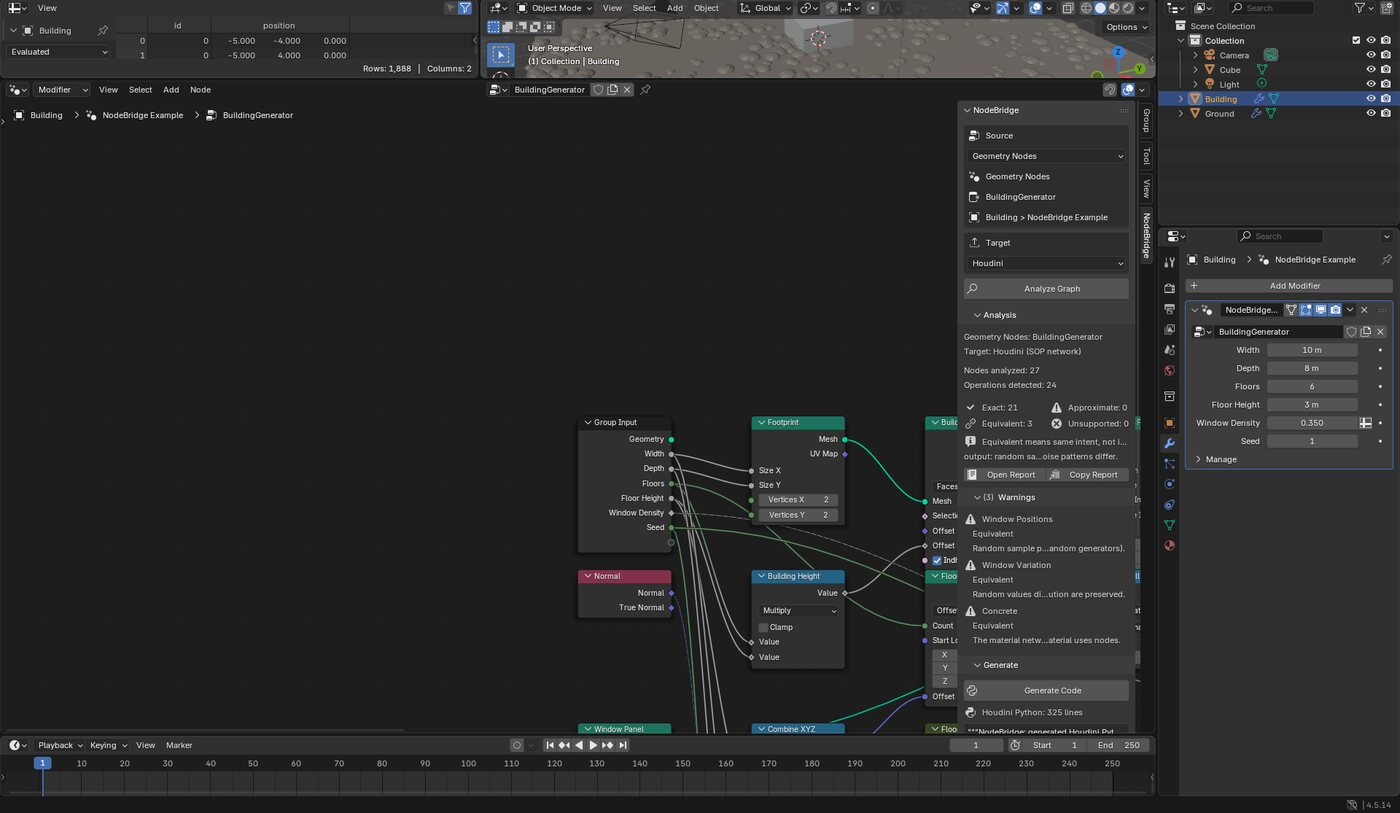
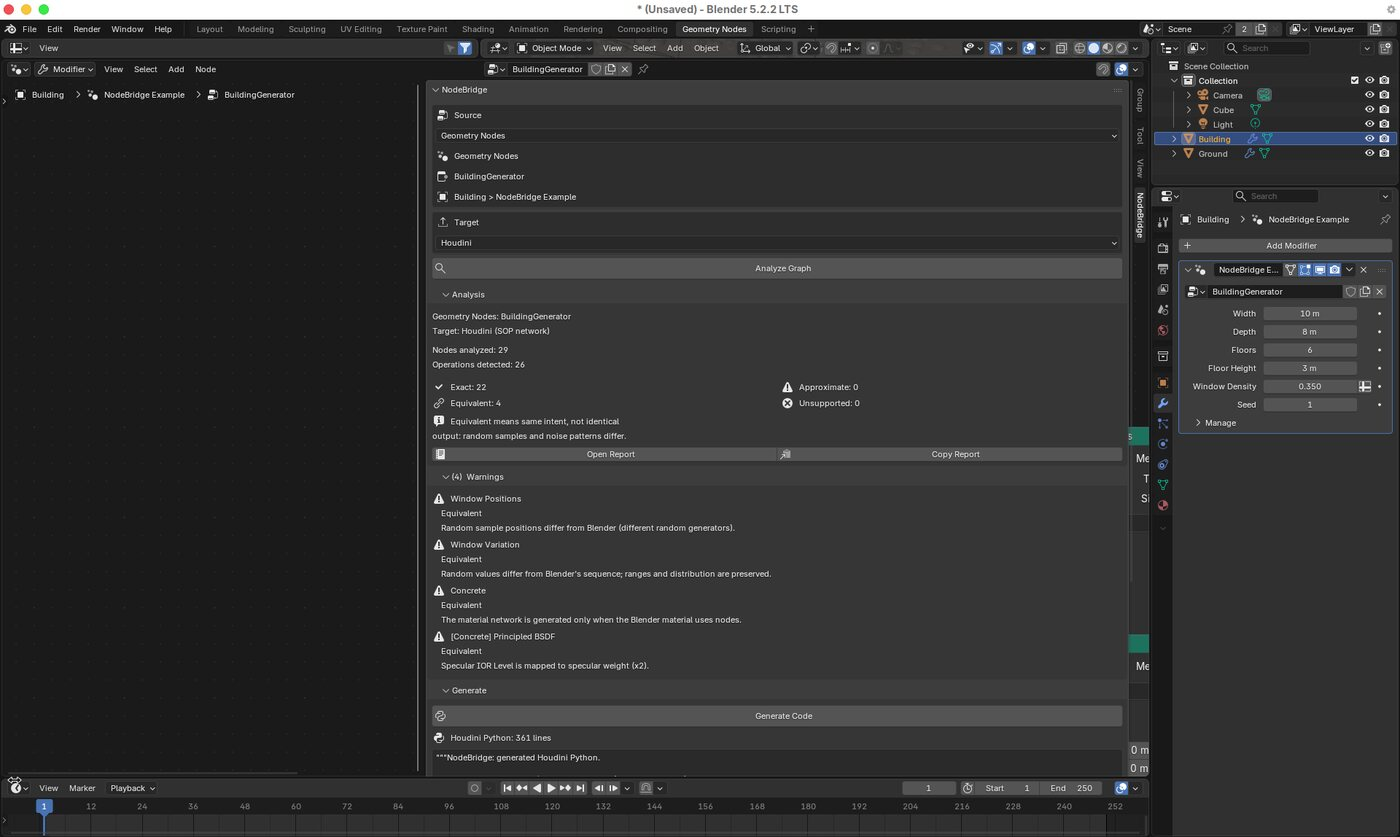
Recapture the README screenshots in Blender 5.2.2 LTS.
The compositor example builds on 5.2, where the scene uses a compositing node group and the composite output is a group output. Glare type and quality are read from the menu sockets. The building panel also counts the Concrete shader, because 5.2 materials are node trees.

diff --git a/examples/blender/build_examples.py b/examples/blender/build_examples.py
@@ -363,27 +363,45 @@ def build_shader():
     return material
 
 
-def build_compositor():
-    scene = bpy.context.scene
-    scene.use_nodes = True
-    tree = scene.node_tree
+def _socket_by_id(node, identifier):
+    """Find a socket by identifier. Blender 5.x reuses display names (Lift, Gain, Result)."""
+    for collection in (node.inputs, node.outputs):
+        for socket in collection:
+            if socket.identifier == identifier:
+                return socket
+    raise KeyError(identifier)
+
+
+def _build_compositor_nodes(tree, *, group_output):
+    """Shared grading chain. Blender 5.2 replaced Composite and Mix RGB."""
     tree.nodes.clear()
     n = tree.nodes
     layers = n.new("CompositorNodeRLayers")
     glare = n.new("CompositorNodeGlare")
     glare.name = glare.label = "Bloom"
-    glare.glare_type = "FOG_GLOW"
-    glare.quality = "HIGH"
-    if "Highlights Threshold" in glare.inputs:
-        glare.inputs["Highlights Threshold"].default_value = 0.8
+    if hasattr(glare, "glare_type"):
+        glare.glare_type = "FOG_GLOW"
+        glare.quality = "HIGH"
     else:
+        _socket_by_id(glare, "Type").default_value = "Fog Glow"
+        _socket_by_id(glare, "Quality").default_value = "High"
+    threshold = next((s for s in glare.inputs if s.identifier == "Highlights Threshold"), None)
+    if threshold is not None:
+        threshold.default_value = 0.8
+    elif hasattr(glare, "threshold"):
         glare.threshold = 0.8
     _link(tree, layers, "Image", glare, "Image")
     grade = n.new("CompositorNodeColorBalance")
     grade.name = grade.label = "Grade"
-    if "Color Gain" in grade.inputs:
-        grade.inputs["Color Gain"].default_value = (1.05, 1.0, 0.92, 1.0)
-        grade.inputs["Color Lift"].default_value = (0.98, 1.0, 1.04, 1.0)
+    color_gain = next((s for s in grade.inputs if s.identifier == "Color Gain"), None)
+    color_lift = next((s for s in grade.inputs if s.identifier == "Color Lift"), None)
+    if color_gain is not None and color_lift is not None:
+        color_gain.default_value = (1.05, 1.0, 0.92, 1.0)
+        color_lift.default_value = (0.98, 1.0, 1.04, 1.0)
+        # 5.2 multiplies Base Lift (default 0) by Color Lift. Keep the color.
+        base_lift = next((s for s in grade.inputs if s.identifier == "Base Lift"), None)
+        if base_lift is not None:
+            base_lift.default_value = 1.0
     else:
         grade.gain = (1.05, 1.0, 0.92)
         grade.lift = (0.98, 1.0, 1.04)
@@ -402,15 +420,39 @@ def build_compositor():
     else:
         soften.size_x = soften.size_y = 200
     _link(tree, mask, "Mask", soften, "Image")
-    vignette = n.new("CompositorNodeMixRGB")
+    if group_output:
+        vignette = n.new("ShaderNodeMix")
+        vignette.data_type = "RGBA"
+        vignette.blend_type = "MULTIPLY"
+        _socket_by_id(vignette, "Factor_Float").default_value = 0.6
+        _link(tree, grade, "Image", vignette, _socket_by_id(vignette, "A_Color"))
+        _link(tree, soften, "Image", vignette, _socket_by_id(vignette, "B_Color"))
+        composite = n.new("NodeGroupOutput")
+        composite.name = composite.label = "Composite"
+        _link(tree, vignette, _socket_by_id(vignette, "Result_Color"), composite, "Image")
+    else:
+        vignette = n.new("CompositorNodeMixRGB")
+        vignette.blend_type = "MULTIPLY"
+        vignette.inputs["Fac"].default_value = 0.6
+        _link(tree, grade, "Image", vignette, 1)
+        _link(tree, soften, "Image", vignette, 2)
+        composite = n.new("CompositorNodeComposite")
+        _link(tree, vignette, "Image", composite, "Image")
     vignette.name = vignette.label = "Vignette"
-    vignette.blend_type = "MULTIPLY"
-    vignette.inputs["Fac"].default_value = 0.6
-    _link(tree, grade, "Image", vignette, 1)
-    _link(tree, soften, "Image", vignette, 2)
-    composite = n.new("CompositorNodeComposite")
-    _link(tree, vignette, "Image", composite, "Image")
     return tree
+
+
+def build_compositor():
+    scene = bpy.context.scene
+    # Blender 5.0+ stores the compositor on the scene as a node group.
+    if hasattr(scene, "compositing_node_group"):
+        tree = _new_tree("Compositing Node Tree", "CompositorNodeTree")
+        _socket(tree, "Image", "OUTPUT", "NodeSocketColor")
+        scene.compositing_node_group = tree
+        return _build_compositor_nodes(tree, group_output=True)
+    scene.use_nodes = True
+    tree = scene.node_tree
+    return _build_compositor_nodes(tree, group_output=False)
 
 
 def build_all():

diff --git a/src/nodebridge/frontend/blender/compositor_nodes.py b/src/nodebridge/frontend/blender/compositor_nodes.py
@@ -31,6 +31,26 @@ def _composite(ctx: LiftContext, node: GraphNode) -> None:
     ctx.emit("COMPOSITE_OUTPUT", node, {"image": ctx.input(node, "Image")}, {"viewer": node.type == "CompositorNodeViewer"})
 
 
+def _menu_or_prop(ctx: LiftContext, node: GraphNode, socket_name: str, prop: str, default: str) -> str:
+    """Read a compositor enum. Blender 5.x moved several of these onto menu sockets."""
+    current = ctx.prop(node, prop, None)
+    if current not in (None, ""):
+        return current
+    socket = node.find_input(socket_name)
+    if socket is not None and isinstance(socket.default, str) and socket.default:
+        token = socket.default
+        aliases = {
+            "Fog Glow": "FOG_GLOW",
+            "Simple Star": "SIMPLE_STAR",
+            "Sun Beams": "SUN_BEAMS",
+            "High": "HIGH",
+            "Medium": "MEDIUM",
+            "Low": "LOW",
+        }
+        return aliases.get(token, token.upper().replace(" ", "_").replace("/", "_"))
+    return default
+
+
 @lifts("CompositorNodeGlare", kinds=CMP)
 def _glare(ctx: LiftContext, node: GraphNode) -> None:
     inputs = {
@@ -43,7 +63,13 @@ def _glare(ctx: LiftContext, node: GraphNode) -> None:
     else:
         mix = float(ctx.prop(node, "mix", 0.0))
         inputs["strength"] = Const((mix + 1.0) / 2.0, DataType.FLOAT)
-    ctx.emit("GLARE", node, inputs, {"glare_type": ctx.prop(node, "glare_type", "STREAKS"), "quality": ctx.prop(node, "quality", "MEDIUM")}, {"image": "Image"})
+    ctx.emit(
+        "GLARE",
+        node,
+        inputs,
+        {"glare_type": _menu_or_prop(ctx, node, "Type", "glare_type", "STREAKS"), "quality": _menu_or_prop(ctx, node, "Quality", "quality", "MEDIUM")},
+        {"image": "Image"},
+    )
 
 
 def _graded(ctx: LiftContext, node: GraphNode, base: str, color: str, prop: str):

diff --git a/src/nodebridge/frontend/blender/lifting.py b/src/nodebridge/frontend/blender/lifting.py
@@ -281,6 +281,11 @@ class LiftContext:
                 continue
             if data_type in GEOMETRY_TYPES and not self.graph.is_subgraph:
                 self.emit("GEOMETRY_OUTPUT", node, {"geometry": value}, {"name": socket.name}, name=socket.name)
+            elif self.kind == TreeKind.COMPOSITOR and not self.graph.is_subgraph and data_type == DataType.COLOR:
+                # Blender 5.x compositors end at a group output instead of Composite.
+                image_outputs = [s for s in node.inputs if s.name == "Image" and s.identifier != "__extend__"]
+                if socket.name == "Image" or not image_outputs:
+                    self.emit("COMPOSITE_OUTPUT", node, {"image": value}, {"viewer": False}, name=socket.name or "Composite")
             self.graph.outputs.append(GraphOutput(socket.identifier, value, data_type, socket.name))
 
     def lift_group_node(self, node: GraphNode, sub: SemanticGraph) -> None:

diff --git a/src/nodebridge/frontend/blender/context.py b/src/nodebridge/frontend/blender/context.py
@@ -104,7 +104,10 @@ def resolve_source(context: Any, source_type: str = "AUTO") -> SourceSelection:
         return SourceSelection(tree, TreeKind.SHADER, name, name, f"Material {name}", None, source)
 
     tree = scene_compositor_tree(scene)
-    if tree is None or not getattr(scene, "use_nodes", True):
+    # 5.x enables the compositor by assigning compositing_node_group. use_nodes
+    # remains on the scene but is deprecated and is not the source of truth.
+    enabled = getattr(scene, "compositing_node_group", None) is not None or getattr(scene, "use_nodes", True)
+    if tree is None or not enabled:
         raise SourceNotFound("The scene has no compositor tree: enable 'Use Nodes' in the Compositor.")
     if space is not None and getattr(space, "type", "") == "NODE_EDITOR" and getattr(space, "tree_type", "") == "CompositorNodeTree" and space.edit_tree is not None:
         tree = space.edit_tree

diff --git a/src/nodebridge/frontend/blender/parser.py b/src/nodebridge/frontend/blender/parser.py
@@ -1,7 +1,7 @@
 """Blender ``bpy`` node tree -> Graph IR.
 
-The parser reads real Blender data (verified on Blender 4.2 LTS and 4.5
-LTS) but never imports ``bpy`` itself: it only uses attributes of the
+The parser reads real Blender data (verified on Blender 4.2 LTS, 4.5
+LTS, and 5.2 LTS) but never imports ``bpy`` itself: it only uses attributes of the
 objects it is given, so the compiler stays importable outside Blender.
 
 Captured per tree: nodes, sockets (identifier, name, type, subtype,

diff --git a/README.md b/README.md
@@ -43,7 +43,7 @@ NodeBridge does **not** promise vertex-identical or pixel-identical results betw
 
 ## Install the Blender add-on
 
-Requirements: **Blender 4.2 LTS or newer** (tested on 4.2 LTS and 4.5 LTS). No other dependencies.
+Requirements: **Blender 4.2 LTS or newer** (tested on 4.2 LTS, 4.5 LTS, and 5.2 LTS). No other dependencies.
 
 1. Get the add-on zip:
    * download `nodebridge-0.3.0.zip` from the repository's releases, **or**
@@ -111,12 +111,12 @@ nb_prop(random_scale_settings, "scale_min", unreal.Vector(SCALE_MIN, SCALE_MIN, 
 | **Unreal target (PCG)** | **Shader to Unreal Material** |
 | ![Panel with Unreal target](docs/images/nodebridge_npanel_unreal.jpg) | ![Shader editor with Unreal target](docs/images/nodebridge_shader_unreal.jpg) |
 
-The building and compositor examples, captured in Blender 4.5.14 LTS:
+The building and compositor examples, captured in Blender 5.2.2 LTS. Blender 5.2 keeps the Concrete material as a node tree, so the building panel counts that shader as well.
 
 | Building, target Houdini | Building, target Unreal Engine 5 |
 | --- | --- |
 | ![NodeBridge on the building example, target Houdini](docs/images/nodebridge_building_houdini.jpg) | ![NodeBridge on the building example, target Unreal](docs/images/nodebridge_building_unreal.jpg) |
-| 21 exact, 3 equivalent. Generate writes 325 lines of Houdini Python. | 4 exact, 3 equivalent, 5 approximate, 11 unsupported. PCG does not model the mesh, and the panel lists each gap. |
+| 22 exact, 4 equivalent. Generate writes 361 lines of Houdini Python. | 5 exact, 4 equivalent, 5 approximate, 11 unsupported. PCG does not model the mesh, and the panel lists each gap. |
 | **Compositor, target Unreal Engine 5** | |
 | ![NodeBridge on the compositor example, target Unreal](docs/images/nodebridge_compositor_unreal.jpg) | Glare, color grade, and the vignette are approximate. Exact 0, equivalent 2, approximate 3. |
 
@@ -175,7 +175,7 @@ Any other node becomes an `UNSUPPORTED_OPERATION`: it is reported, and a placeho
 
 ## What has been verified, and what has not
 
-* **Blender side (verified):** the parser, the add-on UI, the operators and the extension package were run in real **Blender 4.2.23 LTS and 4.5.14 LTS**, both in background and in the GUI. The clipboard copy was checked against the system clipboard. Node socket identifiers and properties were probed in both versions.
+* **Blender side (verified):** the parser, the add-on UI, the operators and the extension package were run in real **Blender 4.2.23 LTS and 4.5.14 LTS**, both in background and in the GUI. The clipboard copy was checked against the system clipboard. Node socket identifiers and properties were probed in both versions. The same background checks, and the GUI operators used for the screenshots above, were run again in **Blender 5.2.2 LTS**. Compositor sockets that 5.2 moved onto menus (Glare type and quality, the composite group output) were probed there.
 * **Generated code (structurally verified):** every generated Houdini and Unreal script is parsed, then executed against recording stand-ins for `hou` and `unreal` (in `tests/fakes/`). Those stand-ins check call shapes, wiring and pin labels.
 * **Not yet verified in a live Houdini or Unreal session.** No Houdini or Unreal licence was available while building 0.3. API usage follows the documented `hou` and Unreal Python APIs, and version-sensitive calls are guarded. Some SOP / COP2 parameter names and Unreal PCG property names may differ in your version: the script reports them as warnings instead of failing. Running the four examples in real Houdini 20.x and Unreal 5.4+ is the top item on the [roadmap](docs/roadmap.md).
 * **Randomness:** the NodeBridge hash is identical in Python and VEX. The test suite compiles the generated VEX library as C and compares it with Python. Blender's own random sequence is not reproduced, so random-dependent operations are classified EQUIVALENT.
